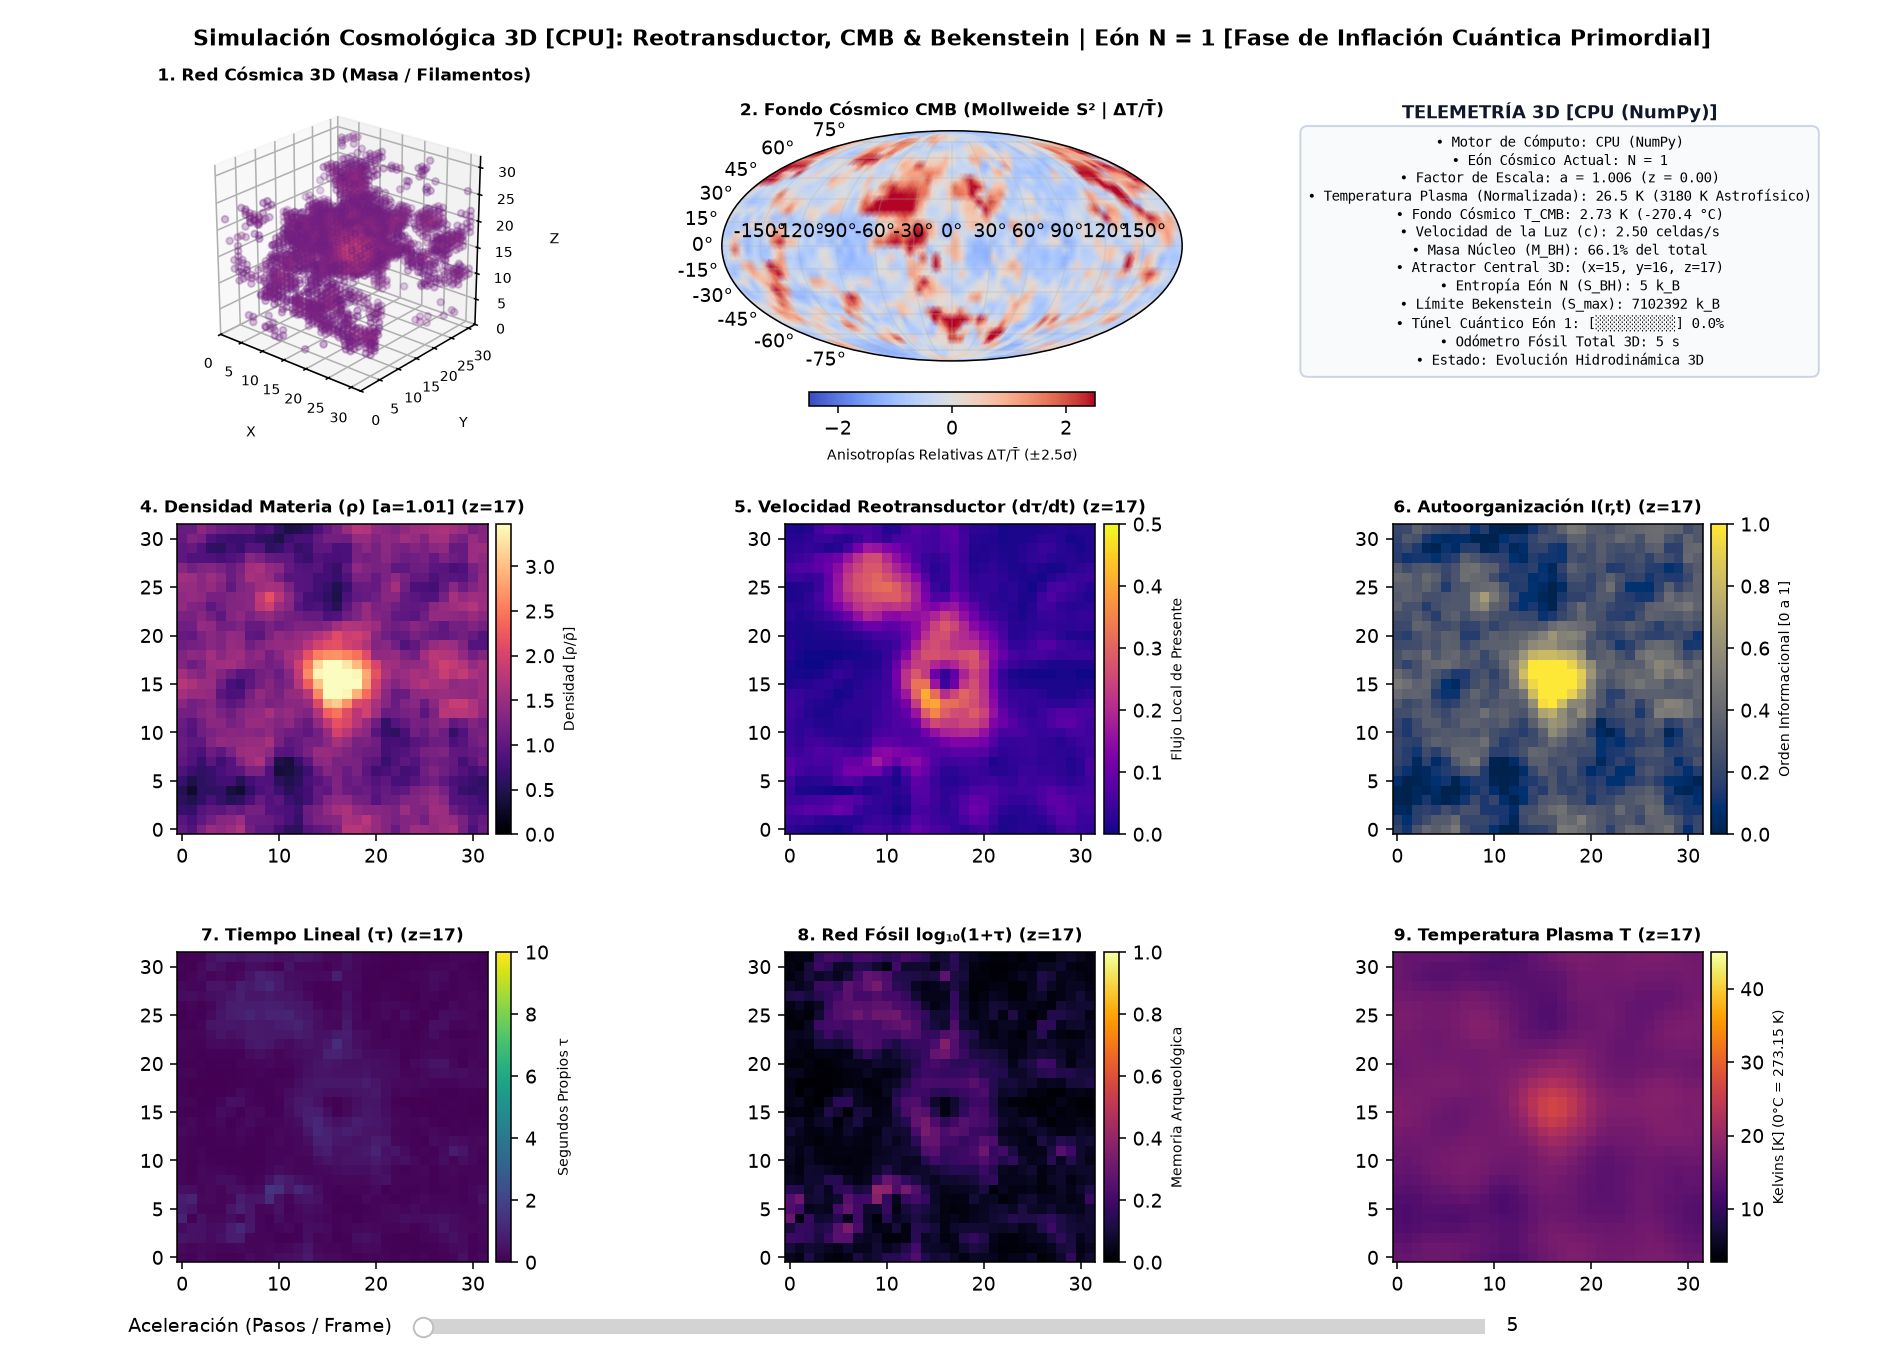
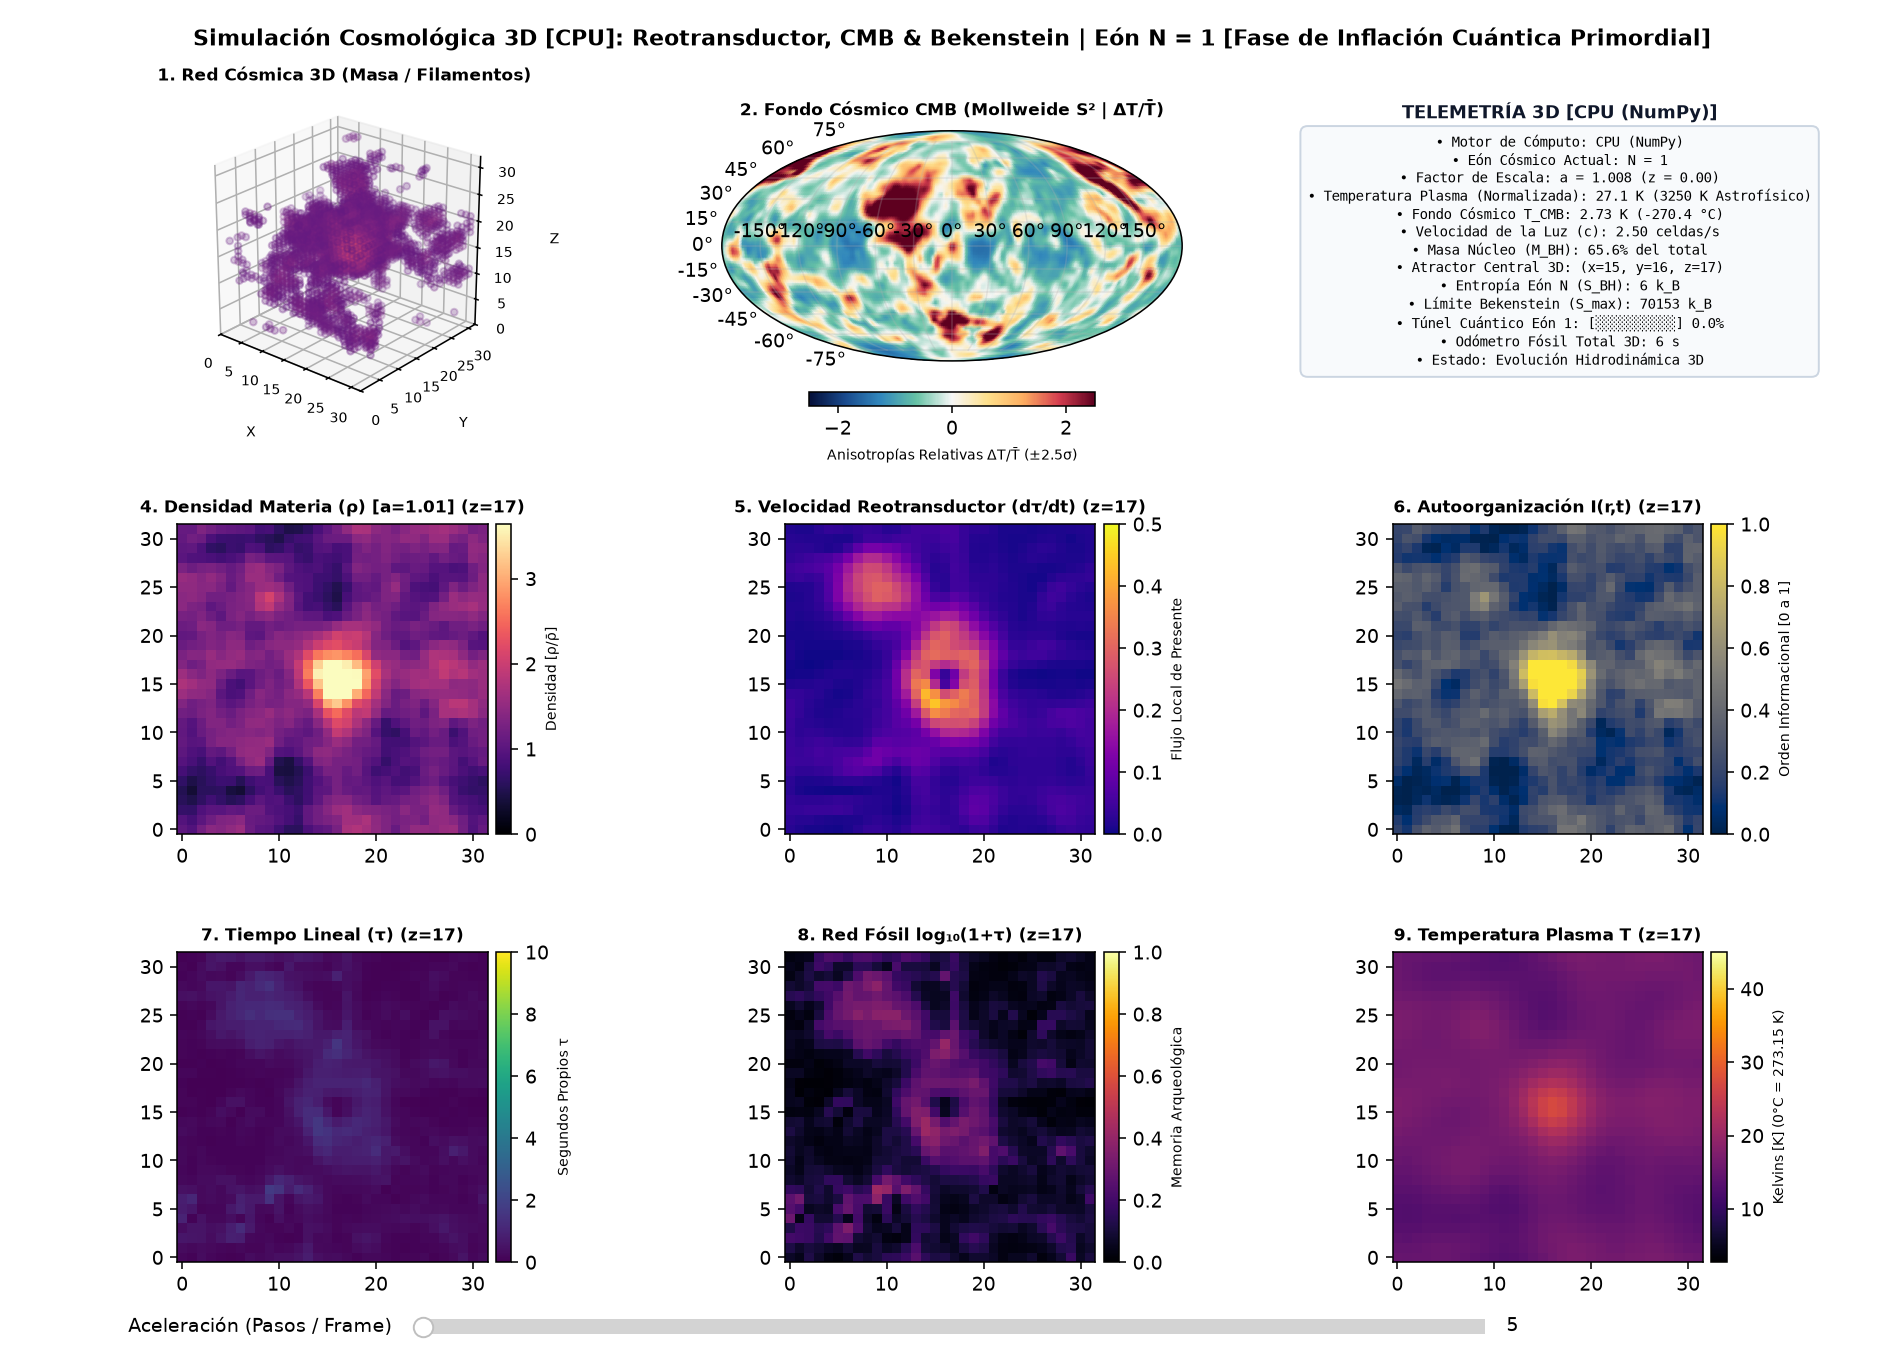
feat(cmb-hd): implement HD trilinear Mollweide sampling, line-of-sight Doppler shift, and official ESA Planck colormap

diff --git a/simulador_cosmologico_3d_gpu.py b/simulador_cosmologico_3d_gpu.py
@@ -4,6 +4,24 @@ import matplotlib.gridspec as gridspec
 from mpl_toolkits.axes_grid1 import make_axes_locatable
 from matplotlib.animation import FuncAnimation
 from matplotlib.widgets import Slider
+from matplotlib.colors import LinearSegmentedColormap
+
+# Paleta oficial calibrada de la misión Planck (ESA Planck Legacy Archive / HEALPix)
+PLANCK_CMAP = LinearSegmentedColormap.from_list(
+    'planck_cmb',
+    [
+        '#05103a',  # Azul Marino Profundo (-2.5σ)
+        '#194a8d',  # Azul Rey
+        '#3288bd',  # Celeste Cian
+        '#66c2a5',  # Turquesa
+        '#f7f7f7',  # Neutro Blanco/Marfil (0.0σ)
+        '#fee08b',  # Ámbar Claro
+        '#fdae61',  # Naranja
+        '#d53e4f',  # Rojo Carmesí
+        '#5e001f'   # Borgoña Oscuro (+2.5σ)
+    ],
+    N=256
+)
 
 # =====================================================================
 # SELECCIÓN AUTOMÁTICA DE BACKEND: GPU (CuPy / CUDA) O CPU (NumPy)
@@ -99,16 +117,49 @@ scale_factor = 1.0
 eon = 1
 steps_per_frame = 20
 
-# Rejilla para la Proyección de la Esfera Celeste del CMB (Mollweide S^2)
-n_lat, n_lon = 36, 72
+# Rejilla de Alta Definición para la Esfera Celeste del CMB (Mollweide S^2)
+n_lat, n_lon = 90, 180
 lats = np.linspace(-np.pi / 2, np.pi / 2, n_lat)
 lons = np.linspace(-np.pi, np.pi, n_lon)
 LON, LAT = np.meshgrid(lons, lats)
+
+# Vectores normales de línea de visión en VRAM
+n_los_x_np = np.cos(LAT) * np.cos(LON)
+n_los_y_np = np.cos(LAT) * np.sin(LON)
+n_los_z_np = np.sin(LAT)
+
+n_los_x = xp.asarray(n_los_x_np, dtype=xp.float32)
+n_los_y = xp.asarray(n_los_y_np, dtype=xp.float32)
+n_los_z = xp.asarray(n_los_z_np, dtype=xp.float32)
+
 r_obs = GRID_SIZE / 2.2
-cx_obs, cy_obs, cz_obs = GRID_SIZE / 2, GRID_SIZE / 2, GRID_SIZE / 2
-px_cmb = np.clip(np.round(cx_obs + r_obs * np.cos(LAT) * np.cos(LON)).astype(int), 0, GRID_SIZE - 1)
-py_cmb = np.clip(np.round(cy_obs + r_obs * np.cos(LAT) * np.sin(LON)).astype(int), 0, GRID_SIZE - 1)
-pz_cmb = np.clip(np.round(cz_obs + r_obs * np.sin(LAT)).astype(int), 0, GRID_SIZE - 1)
+cx_obs, cy_obs, cz_obs = GRID_SIZE / 2.0, GRID_SIZE / 2.0, GRID_SIZE / 2.0
+coords_cmb_x = (cx_obs + r_obs * n_los_x) % GRID_SIZE
+coords_cmb_y = (cy_obs + r_obs * n_los_y) % GRID_SIZE
+coords_cmb_z = (cz_obs + r_obs * n_los_z) % GRID_SIZE
+
+def sample_sphere_trilinear_gpu(arr, cx, cy, cz):
+    """Muestreo trilineal continuo en la esfera en memoria VRAM con condiciones de contorno periódicas."""
+    x0 = xp.floor(cx).astype(xp.int32) % GRID_SIZE
+    x1 = (x0 + 1) % GRID_SIZE
+    y0 = xp.floor(cy).astype(xp.int32) % GRID_SIZE
+    y1 = (y0 + 1) % GRID_SIZE
+    z0 = xp.floor(cz).astype(xp.int32) % GRID_SIZE
+    z1 = (z0 + 1) % GRID_SIZE
+    
+    xd = (cx - xp.floor(cx)).astype(xp.float32)
+    yd = (cy - xp.floor(cy)).astype(xp.float32)
+    zd = (cz - xp.floor(cz)).astype(xp.float32)
+    
+    c00 = arr[x0, y0, z0] * (1.0 - xd) + arr[x1, y0, z0] * xd
+    c01 = arr[x0, y0, z1] * (1.0 - xd) + arr[x1, y0, z1] * xd
+    c10 = arr[x0, y1, z0] * (1.0 - xd) + arr[x1, y1, z0] * xd
+    c11 = arr[x0, y1, z1] * (1.0 - xd) + arr[x1, y1, z1] * xd
+    
+    c0 = c00 * (1.0 - yd) + c10 * yd
+    c1 = c01 * (1.0 - yd) + c11 * yd
+    
+    return c0 * (1.0 - zd) + c1 * zd
 
 # =====================================================================
 # OPERADORES DIFERENCIALES 3D VECTORIZADOS EN GPU
@@ -327,11 +378,16 @@ ax_3d.set_xlabel('X', fontsize=7.2)
 ax_3d.set_ylabel('Y', fontsize=7.2)
 ax_3d.set_zlabel('Z', fontsize=7.2)
 
-# Panel 2: CMB Mollweide (Planck Style ΔT/T̄)
-cmb_raw = np.log10(1.0 + tau_np[px_cmb, py_cmb, pz_cmb])
-cmb_std = max(1e-4, float(np.std(cmb_raw)))
-cmb_init = (cmb_raw - np.mean(cmb_raw)) / cmb_std
-im_cmb = ax_cmb.pcolormesh(LON, LAT, cmb_init, cmap='coolwarm', shading='gouraud', vmin=-2.5, vmax=2.5)
+# Panel 2: CMB Mollweide HD (Planck Style ΔT/T̄ con Muestreo Trilineal en VRAM y Efecto Doppler)
+tau_s_init = sample_sphere_trilinear_gpu(tau, coords_cmb_x, coords_cmb_y, coords_cmb_z)
+vx_s_init = sample_sphere_trilinear_gpu(v_x, coords_cmb_x, coords_cmb_y, coords_cmb_z)
+vy_s_init = sample_sphere_trilinear_gpu(v_y, coords_cmb_x, coords_cmb_y, coords_cmb_z)
+vz_s_init = sample_sphere_trilinear_gpu(v_z, coords_cmb_x, coords_cmb_y, coords_cmb_z)
+v_los_init = (vx_s_init * n_los_x + vy_s_init * n_los_y + vz_s_init * n_los_z) / C_LIGHT
+cmb_raw_init = xp.log10(1.0 + xp.maximum(0.0, tau_s_init)) + 0.4 * v_los_init
+cmb_std_init = float(xp.maximum(1e-4, xp.std(cmb_raw_init)))
+cmb_init = to_cpu((cmb_raw_init - float(xp.mean(cmb_raw_init))) / cmb_std_init)
+im_cmb = ax_cmb.pcolormesh(LON, LAT, cmb_init, cmap=PLANCK_CMAP, shading='gouraud', vmin=-2.5, vmax=2.5)
 title_cmb = ax_cmb.set_title("2. Fondo Cósmico CMB (Mollweide S² | ΔT/T̄)", fontweight='bold', fontsize=8.8, pad=8)
 ax_cmb.grid(True, alpha=0.25)
 cbar_cmb = fig.colorbar(im_cmb, ax=ax_cmb, orientation='horizontal', fraction=0.046, pad=0.10)
@@ -447,10 +503,15 @@ def animate_3d(frame):
         sc_3d.set_array(c_vals)
         sc_3d.set_clim(vmin=0.0, vmax=max(3.0, float(np.max(c_vals))))
     
-    # 5. Actualizar Mapa CMB Mollweide (Anisotropías Relativas Planck/WMAP Style)
-    cmb_raw = np.log10(1.0 + tau_cpu[px_cmb, py_cmb, pz_cmb])
-    cmb_std = max(1e-4, float(np.std(cmb_raw)))
-    cmb_data = (cmb_raw - float(np.mean(cmb_raw))) / cmb_std
+    # 5. Actualizar Mapa CMB Mollweide HD (Memoria Fósil + Efecto Doppler Cinemático en VRAM)
+    tau_s = sample_sphere_trilinear_gpu(tau, coords_cmb_x, coords_cmb_y, coords_cmb_z)
+    vx_s = sample_sphere_trilinear_gpu(v_x, coords_cmb_x, coords_cmb_y, coords_cmb_z)
+    vy_s = sample_sphere_trilinear_gpu(v_y, coords_cmb_x, coords_cmb_y, coords_cmb_z)
+    vz_s = sample_sphere_trilinear_gpu(v_z, coords_cmb_x, coords_cmb_y, coords_cmb_z)
+    v_los = (vx_s * n_los_x + vy_s * n_los_y + vz_s * n_los_z) / C_LIGHT
+    cmb_raw = xp.log10(1.0 + xp.maximum(0.0, tau_s)) + 0.4 * v_los
+    cmb_std = float(xp.maximum(1e-4, xp.std(cmb_raw)))
+    cmb_data = to_cpu((cmb_raw - float(xp.mean(cmb_raw))) / cmb_std)
     im_cmb.set_array(cmb_data.ravel())
     im_cmb.set_clim(vmin=-2.5, vmax=2.5)
     

diff --git a/simulador_cosmologico_3d.py b/simulador_cosmologico_3d.py
@@ -4,6 +4,24 @@ import matplotlib.gridspec as gridspec
 from mpl_toolkits.axes_grid1 import make_axes_locatable
 from matplotlib.animation import FuncAnimation
 from matplotlib.widgets import Slider
+from matplotlib.colors import LinearSegmentedColormap
+
+# Paleta oficial calibrada de la misión Planck (ESA Planck Legacy Archive / HEALPix)
+PLANCK_CMAP = LinearSegmentedColormap.from_list(
+    'planck_cmb',
+    [
+        '#05103a',  # Azul Marino Profundo (-2.5σ)
+        '#194a8d',  # Azul Rey
+        '#3288bd',  # Celeste Cian
+        '#66c2a5',  # Turquesa
+        '#f7f7f7',  # Neutro Blanco/Marfil (0.0σ)
+        '#fee08b',  # Ámbar Claro
+        '#fdae61',  # Naranja
+        '#d53e4f',  # Rojo Carmesí
+        '#5e001f'   # Borgoña Oscuro (+2.5σ)
+    ],
+    N=256
+)
 
 # =====================================================================
 # CONFIGURACIÓN DEL MODELO COSMOLÓGICO 3D (CPU / NumPy)
@@ -66,16 +84,45 @@ scale_factor = 1.0
 eon = 1
 steps_per_frame = 5
 
-# Rejilla para la Proyección de la Esfera Celeste del CMB (Mollweide S^2)
-n_lat, n_lon = 36, 72
+# Rejilla de Alta Definición para la Esfera Celeste del CMB (Mollweide S^2)
+n_lat, n_lon = 90, 180
 lats = np.linspace(-np.pi / 2, np.pi / 2, n_lat)
 lons = np.linspace(-np.pi, np.pi, n_lon)
 LON, LAT = np.meshgrid(lons, lats)
+
+# Vectores normales de línea de visión (Line-of-Sight Unit Vectors)
+n_los_x = np.cos(LAT) * np.cos(LON)
+n_los_y = np.cos(LAT) * np.sin(LON)
+n_los_z = np.sin(LAT)
+
 r_obs = GRID_SIZE / 2.2
-cx_obs, cy_obs, cz_obs = GRID_SIZE / 2, GRID_SIZE / 2, GRID_SIZE / 2
-px_cmb = np.clip(np.round(cx_obs + r_obs * np.cos(LAT) * np.cos(LON)).astype(int), 0, GRID_SIZE - 1)
-py_cmb = np.clip(np.round(cy_obs + r_obs * np.cos(LAT) * np.sin(LON)).astype(int), 0, GRID_SIZE - 1)
-pz_cmb = np.clip(np.round(cz_obs + r_obs * np.sin(LAT)).astype(int), 0, GRID_SIZE - 1)
+cx_obs, cy_obs, cz_obs = GRID_SIZE / 2.0, GRID_SIZE / 2.0, GRID_SIZE / 2.0
+coords_cmb_x = (cx_obs + r_obs * n_los_x) % GRID_SIZE
+coords_cmb_y = (cy_obs + r_obs * n_los_y) % GRID_SIZE
+coords_cmb_z = (cz_obs + r_obs * n_los_z) % GRID_SIZE
+
+def sample_sphere_trilinear(arr, cx, cy, cz):
+    """Muestreo trilineal continuo en la esfera con condiciones de contorno periódicas."""
+    x0 = np.floor(cx).astype(int) % GRID_SIZE
+    x1 = (x0 + 1) % GRID_SIZE
+    y0 = np.floor(cy).astype(int) % GRID_SIZE
+    y1 = (y0 + 1) % GRID_SIZE
+    z0 = np.floor(cz).astype(int) % GRID_SIZE
+    z1 = (z0 + 1) % GRID_SIZE
+    
+    xd = (cx - np.floor(cx)).astype(np.float32)
+    yd = (cy - np.floor(cy)).astype(np.float32)
+    zd = (cz - np.floor(cz)).astype(np.float32)
+    
+    c00 = arr[x0, y0, z0] * (1.0 - xd) + arr[x1, y0, z0] * xd
+    c01 = arr[x0, y0, z1] * (1.0 - xd) + arr[x1, y0, z1] * xd
+    c10 = arr[x0, y1, z0] * (1.0 - xd) + arr[x1, y1, z0] * xd
+    c11 = arr[x0, y1, z1] * (1.0 - xd) + arr[x1, y1, z1] * xd
+    
+    c0 = c00 * (1.0 - yd) + c10 * yd
+    c1 = c01 * (1.0 - yd) + c11 * yd
+    
+    return c0 * (1.0 - zd) + c1 * zd
 
 def trigger_white_hole_eon_3d(rho_current, tau_current):
     x0, y0, z0 = np.unravel_index(np.argmax(rho_current), rho_current.shape)
@@ -259,11 +306,16 @@ ax_3d.set_xlabel('X', fontsize=7.2)
 ax_3d.set_ylabel('Y', fontsize=7.2)
 ax_3d.set_zlabel('Z', fontsize=7.2)
 
-# Panel 2: CMB Mollweide (Planck Style ΔT/T̄)
-cmb_raw = np.log10(1.0 + tau[px_cmb, py_cmb, pz_cmb])
+# Panel 2: CMB Mollweide HD (Planck Style ΔT/T̄ con Muestreo Trilineal y Efecto Doppler)
+tau_s_init = sample_sphere_trilinear(tau, coords_cmb_x, coords_cmb_y, coords_cmb_z)
+vx_s_init = sample_sphere_trilinear(v_x, coords_cmb_x, coords_cmb_y, coords_cmb_z)
+vy_s_init = sample_sphere_trilinear(v_y, coords_cmb_x, coords_cmb_y, coords_cmb_z)
+vz_s_init = sample_sphere_trilinear(v_z, coords_cmb_x, coords_cmb_y, coords_cmb_z)
+v_los_init = (vx_s_init * n_los_x + vy_s_init * n_los_y + vz_s_init * n_los_z) / C_LIGHT
+cmb_raw = np.log10(1.0 + np.maximum(0.0, tau_s_init)) + 0.4 * v_los_init
 cmb_std = max(1e-4, float(np.std(cmb_raw)))
 cmb_init = (cmb_raw - np.mean(cmb_raw)) / cmb_std
-im_cmb = ax_cmb.pcolormesh(LON, LAT, cmb_init, cmap='coolwarm', shading='gouraud', vmin=-2.5, vmax=2.5)
+im_cmb = ax_cmb.pcolormesh(LON, LAT, cmb_init, cmap=PLANCK_CMAP, shading='gouraud', vmin=-2.5, vmax=2.5)
 title_cmb = ax_cmb.set_title("2. Fondo Cósmico CMB (Mollweide S² | ΔT/T̄)", fontweight='bold', fontsize=8.8, pad=8)
 ax_cmb.grid(True, alpha=0.25)
 cbar_cmb = fig.colorbar(im_cmb, ax=ax_cmb, orientation='horizontal', fraction=0.046, pad=0.10)
@@ -369,8 +421,14 @@ def animate_3d(frame):
         sc_3d.set_array(c_vals)
         sc_3d.set_clim(vmin=0.0, vmax=max(3.0, float(np.max(c_vals))))
     
-    # 2. Actualizar Mapa CMB Mollweide (Anisotropías Relativas Planck/WMAP Style)
-    cmb_raw = np.log10(1.0 + tau[px_cmb, py_cmb, pz_cmb])
+    # 2. Actualizar Mapa CMB Mollweide HD (Memoria Fósil + Efecto Doppler Cinemático)
+    tau_s = sample_sphere_trilinear(tau, coords_cmb_x, coords_cmb_y, coords_cmb_z)
+    vx_s = sample_sphere_trilinear(v_x, coords_cmb_x, coords_cmb_y, coords_cmb_z)
+    vy_s = sample_sphere_trilinear(v_y, coords_cmb_x, coords_cmb_y, coords_cmb_z)
+    vz_s = sample_sphere_trilinear(v_z, coords_cmb_x, coords_cmb_y, coords_cmb_z)
+    
+    v_los = (vx_s * n_los_x + vy_s * n_los_y + vz_s * n_los_z) / C_LIGHT
+    cmb_raw = np.log10(1.0 + np.maximum(0.0, tau_s)) + 0.4 * v_los
     cmb_std = max(1e-4, float(np.std(cmb_raw)))
     cmb_data = (cmb_raw - float(np.mean(cmb_raw))) / cmb_std
     im_cmb.set_array(cmb_data.ravel())

diff --git a/docs/THEORY_AND_MATHEMATICAL_FORMULATION.md b/docs/THEORY_AND_MATHEMATICAL_FORMULATION.md
@@ -204,23 +204,42 @@ I_next = np.clip(I + dI_dt * DT, 0.0, 1.0)
 
 ---
 
-### 3.7. Celestial Sphere CMB Map (Mollweide $S^2$ Projection)
+### 3.7. High-Definition Celestial Sphere CMB Map (Mollweide $S^2$ Projection & Doppler Shift)
 
-The Cosmic Microwave Background (CMB) celestial sphere is extracted at an observer shell radius $r_{\text{obs}} = L / 2.2$. Anisotropies $\Delta T / \bar{T}$ are projected via equal-area Mollweide projection:
+The Cosmic Microwave Background (CMB) celestial sphere is extracted continuously at an observer shell radius $r_{\text{obs}} = L / 2.2$. Temperature anisotropies $\Delta T / \bar{T}$ combine both the fossil time gravitational imprint (Sachs-Wolfe effect) and line-of-sight relativistic kinematic Doppler shifts ($\mathbf{v} \cdot \hat{\mathbf{n}}$):
 
-$$x_{\text{sph}}(\theta, \phi) = x_0 + r_{\text{obs}} \cos\theta \cos\phi$$
+$$\hat{\mathbf{n}}(\theta, \phi) = (\cos\theta\cos\phi, \; \cos\theta\sin\phi, \; \sin\theta)$$
 
-$$y_{\text{sph}}(\theta, \phi) = y_0 + r_{\text{obs}} \cos\theta \sin\phi$$
+$$\mathbf{r}_{\text{CMB}}(\theta, \phi) = \mathbf{r}_{\text{obs}} + r_{\text{obs}} \cdot \hat{\mathbf{n}}(\theta, \phi) \pmod L$$
 
-$$z_{\text{sph}}(\theta, \phi) = z_0 + r_{\text{obs}} \sin\theta$$
+$$v_{\text{los}}(\theta, \phi) = \frac{\mathbf{v}(\mathbf{r}_{\text{CMB}}) \cdot \hat{\mathbf{n}}(\theta, \phi)}{c}$$
 
-$$\frac{\Delta T}{\bar{T}}(\theta, \phi) = \frac{\tau_{\text{log}}(\theta, \phi) - \mu_{\tau}}{\sigma_\tau}$$
+$$\text{CMB}_{\text{raw}}(\theta, \phi) = \log_{10}(1.0 + \tau(\mathbf{r}_{\text{CMB}})) + \alpha_{\text{Doppler}} \cdot v_{\text{los}}(\theta, \phi)$$
+
+$$\frac{\Delta T}{\bar{T}}(\theta, \phi) = \frac{\text{CMB}_{\text{raw}}(\theta, \phi) - \langle \text{CMB}_{\text{raw}} \rangle_{S^2}}{\sigma(\text{CMB}_{\text{raw}})}$$
+
+Continuous trilinear interpolation across periodic boundaries eliminates voxel discretization, producing silky-smooth multipolar acoustic structures across the celestial sphere rendered via the official **ESA Planck Legacy Archive color gradient**.
 
 #### Python Implementation:
 ```python
-cmb_raw = np.log10(1.0 + tau[px_cmb, py_cmb, pz_cmb])
+# Official Planck 2018 ESA Colormap
+PLANCK_CMAP = LinearSegmentedColormap.from_list(
+    'planck_cmb',
+    ['#05103a', '#194a8d', '#3288bd', '#66c2a5', '#f7f7f7', '#fee08b', '#fdae61', '#d53e4f', '#5e001f'],
+    N=256
+)
+
+tau_s = sample_sphere_trilinear(tau, coords_cmb_x, coords_cmb_y, coords_cmb_z)
+vx_s = sample_sphere_trilinear(v_x, coords_cmb_x, coords_cmb_y, coords_cmb_z)
+vy_s = sample_sphere_trilinear(v_y, coords_cmb_x, coords_cmb_y, coords_cmb_z)
+vz_s = sample_sphere_trilinear(v_z, coords_cmb_x, coords_cmb_y, coords_cmb_z)
+
+v_los = (vx_s * n_los_x + vy_s * n_los_y + vz_s * n_los_z) / C_LIGHT
+cmb_raw = np.log10(1.0 + np.maximum(0.0, tau_s)) + 0.4 * v_los
 cmb_std = max(1e-4, float(np.std(cmb_raw)))
 cmb_data = (cmb_raw - float(np.mean(cmb_raw))) / cmb_std
+im_cmb.set_array(cmb_data.ravel())
+im_cmb.set_clim(vmin=-2.5, vmax=2.5)
 ```
 
 ---
